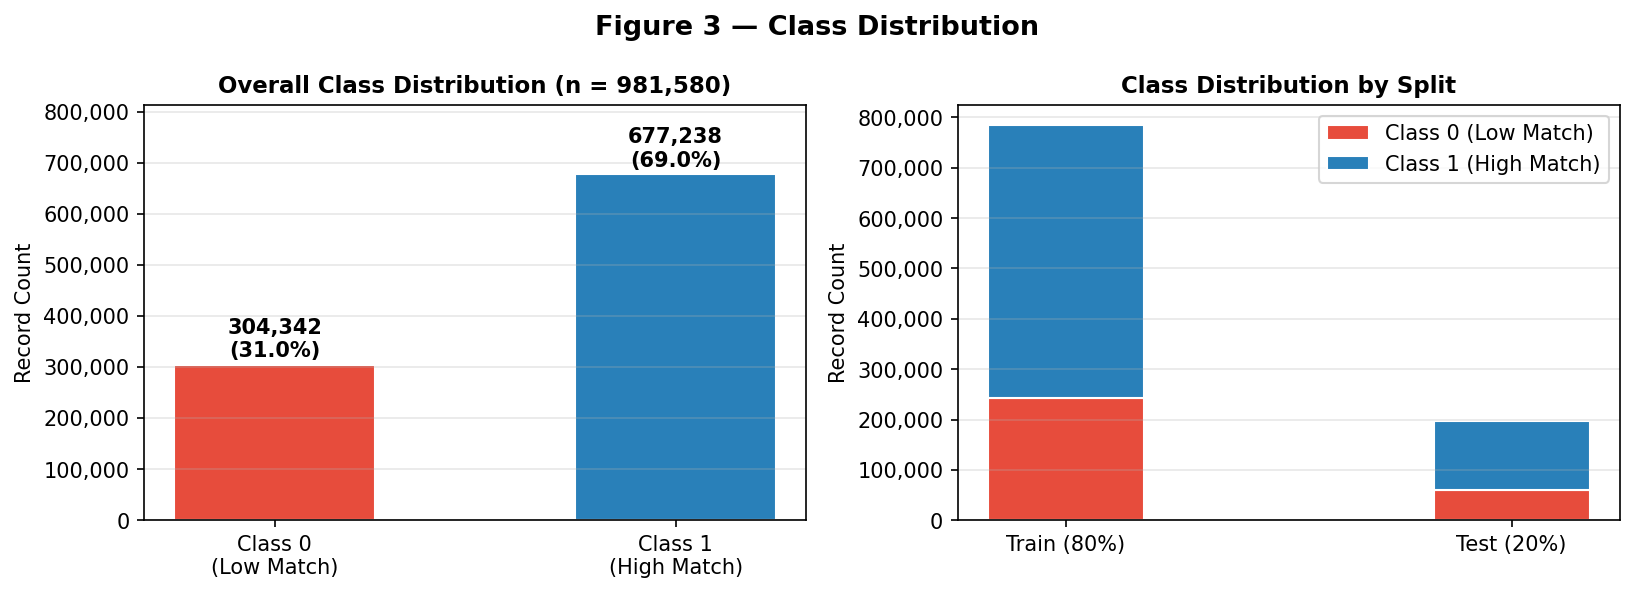
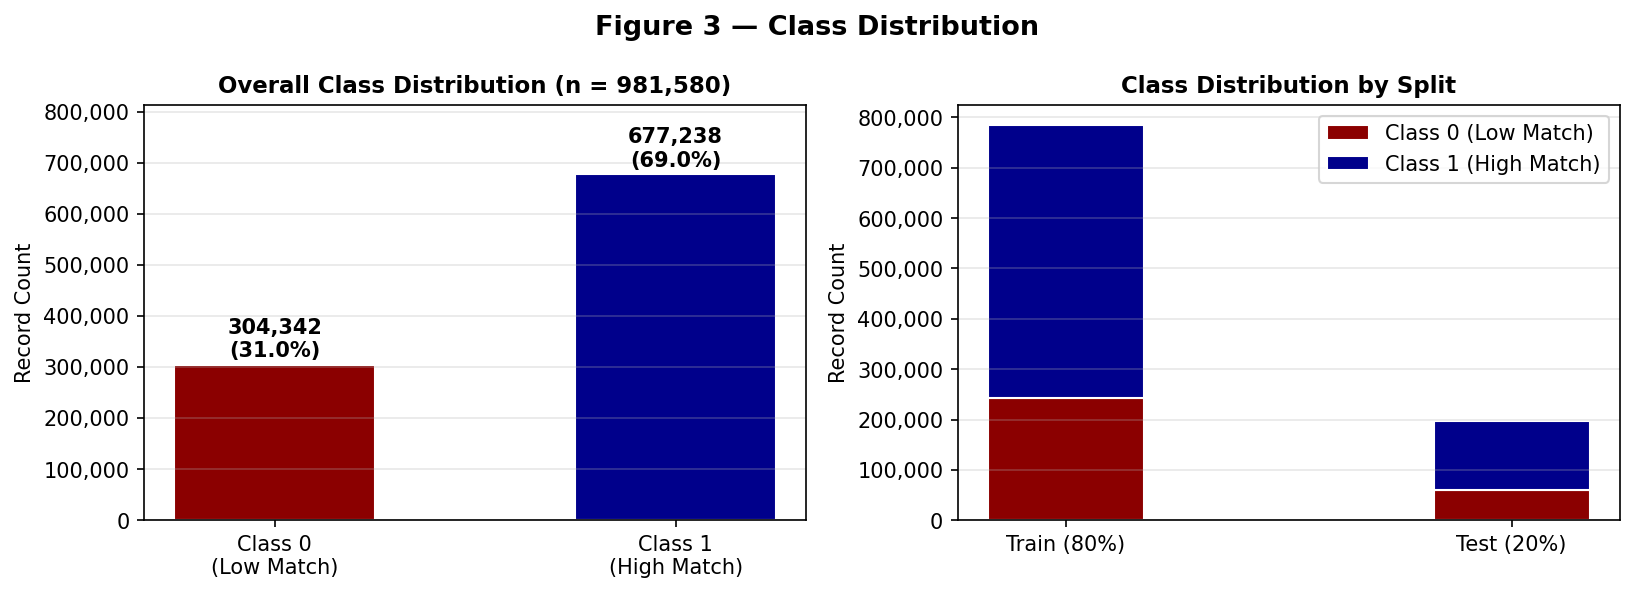
Update class distribution chart colors, fix Mermaid diagrams, remove author info
- fig3: recolor to darkblue/darkred to match monthly revenue chart scheme
- DATAMIN.md: fix Mermaid node syntax (\n -> <br/>, [[...]] -> [...]) for proper GitHub rendering
- DATAMIN.md: remove author/role/contact/event header block
- Notebook fig3_code cell updated to match new color scheme

diff --git a/DATAMIN.md b/DATAMIN.md
@@ -1,11 +1,6 @@
 # DATAMIN.md — Final Paper Documentation
 ## Low Performing Product in Sephora Dataset Product Recommendation Model
 
-**Author:** Gabrielle Ysabel Almirol
-**Role:** Chief Technology Officer, Association of Information Management Benilde
-**Contact:** gabrielleysabel.almirol@benilde.edu.ph
-**Event:** Between the Lines: Machine Learning Study Jam — April 4, 2025
-
 ---
 
 ## Figure Index
@@ -718,21 +713,21 @@ ORDER BY purchase_count DESC;
 
 ```mermaid
 flowchart TD
-    A[["Data Source\nKaggle: Sephora Products\nand Skincare Reviews"]]
-    B[["Data Ingestion\nkagglehub.dataset_download\npandas.read_csv\n5 review CSVs + 1 product CSV"]]
-    C[["Spark Session Init\nPySpark 3.5.4\nlocal master"]]
-    D[["Data Cleaning\nNull removal, deduplication\nType coercion, whitespace strip\nBoolean encoding, season tagging"]]
-    E[["Data Union and SQL\nUNION ALL 5 review tables\nSpark SQL TempViews"]]
-    F[["Revenue Analysis\nSUM price_usd GROUP BY product_id\nFilter: YEAR 2020-2023\nIdentify: P442990 = lowest (1.15%)"]]
-    G[["Co-Purchase Mining\nCTE: buyers of P442990\nFind complementary products\nRank by purchase_count"]]
-    H[["Ingredient Extraction\nLATERAL VIEW explode split\nParse size to size_oz and size_mL"]]
-    I[["Concentration Scoring\nMatch ingredients vs. P442990\ntotal_concentration = sum(conc% x size_oz)\n41 ingredient lookup table"]]
-    J[["Target Engineering\nMedian threshold = 0.075\ntarget=1 if above, else 0\nCorrelation: r=0.2826"]]
-    K[["Train/Test Split\ntest_size=0.2, random_state=42\nTrain: 785,853 — Test: 196,464"]]
-    L[["Model Training\nCatBoostClassifier\niterations=500, depth=6\nlearning_rate=0.1, eval_metric=F1"]]
-    M[["Evaluation\nAccuracy: 99.93%\nF1: 99.95%\nPrecision: 99.89%\nRecall: 100.00%"]]
-    N[["Model Serialization\ndill .pkl\nbtl_model_20250320_2034\n_matched-conc_P442990_purchases.pkl"]]
-    O[["API Deployment\nFlask REST API\nProduct Recommendation\nEndpoint"]]
+    A["Data Source<br/>Kaggle: Sephora Products<br/>and Skincare Reviews"]
+    B["Data Ingestion<br/>kagglehub.dataset_download<br/>pandas.read_csv<br/>5 review CSVs + 1 product CSV"]
+    C["Spark Session Init<br/>PySpark 3.5.4<br/>local master"]
+    D["Data Cleaning<br/>Null removal, deduplication<br/>Type coercion, whitespace strip<br/>Boolean encoding, season tagging"]
+    E["Data Union and SQL<br/>UNION ALL 5 review tables<br/>Spark SQL TempViews"]
+    F["Revenue Analysis<br/>SUM price_usd GROUP BY product_id<br/>Filter: YEAR 2020-2023<br/>Identify: P442990 = lowest (1.15%)"]
+    G["Co-Purchase Mining<br/>CTE: buyers of P442990<br/>Find complementary products<br/>Rank by purchase_count"]
+    H["Ingredient Extraction<br/>LATERAL VIEW explode split<br/>Parse size to size_oz and size_mL"]
+    I["Concentration Scoring<br/>Match ingredients vs. P442990<br/>total_concentration = sum(conc% x size_oz)<br/>41 ingredient lookup table"]
+    J["Target Engineering<br/>Median threshold = 0.075<br/>target=1 if above, else 0<br/>Correlation: r=0.2826"]
+    K["Train/Test Split<br/>test_size=0.2, random_state=42<br/>Train: 785,853 — Test: 196,464"]
+    L["Model Training<br/>CatBoostClassifier<br/>iterations=500, depth=6<br/>learning_rate=0.1, eval_metric=F1"]
+    M["Evaluation<br/>Accuracy: 99.93%<br/>F1: 99.95%<br/>Precision: 99.89%<br/>Recall: 100.00%"]
+    N["Model Serialization<br/>dill .pkl<br/>btl_model_20250320_2034<br/>_matched-conc_P442990_purchases.pkl"]
+    O["API Deployment<br/>Flask REST API<br/>Product Recommendation<br/>Endpoint"]
 
     A --> B
     B --> C
@@ -754,17 +749,17 @@ flowchart TD
 
 ```mermaid
 flowchart LR
-    A["Product Ingredient List\n(raw text string)"]
-    B["LATERAL VIEW explode\nsplit(ingredients, ',')"]
-    C["Individual\nIngredient Rows"]
-    D["P442990 Concentration\nLookup Table\n41 ingredients"]
+    A["Product Ingredient List<br/>(raw text string)"]
+    B["LATERAL VIEW explode<br/>split(ingredients, ',')"]
+    C["Individual<br/>Ingredient Rows"]
+    D["P442990 Concentration<br/>Lookup Table<br/>41 ingredients"]
     E["INNER JOIN / TRIM match"]
-    F["Matched Ingredients\nwith conc%"]
-    G["Multiply by size_oz\n(parsed from size field)"]
-    H["SUM per product\n= total_concentration"]
-    I{"total_concentration\n> 0.075 (median)?"}
-    J["target = 1\nHigh Match"]
-    K["target = 0\nLow Match"]
+    F["Matched Ingredients<br/>with conc%"]
+    G["Multiply by size_oz<br/>(parsed from size field)"]
+    H["SUM per product<br/>= total_concentration"]
+    I{"total_concentration<br/>> 0.075 (median)?"}
+    J["target = 1<br/>High Match"]
+    K["target = 0<br/>Low Match"]
 
     A --> B --> C --> E
     D --> E
